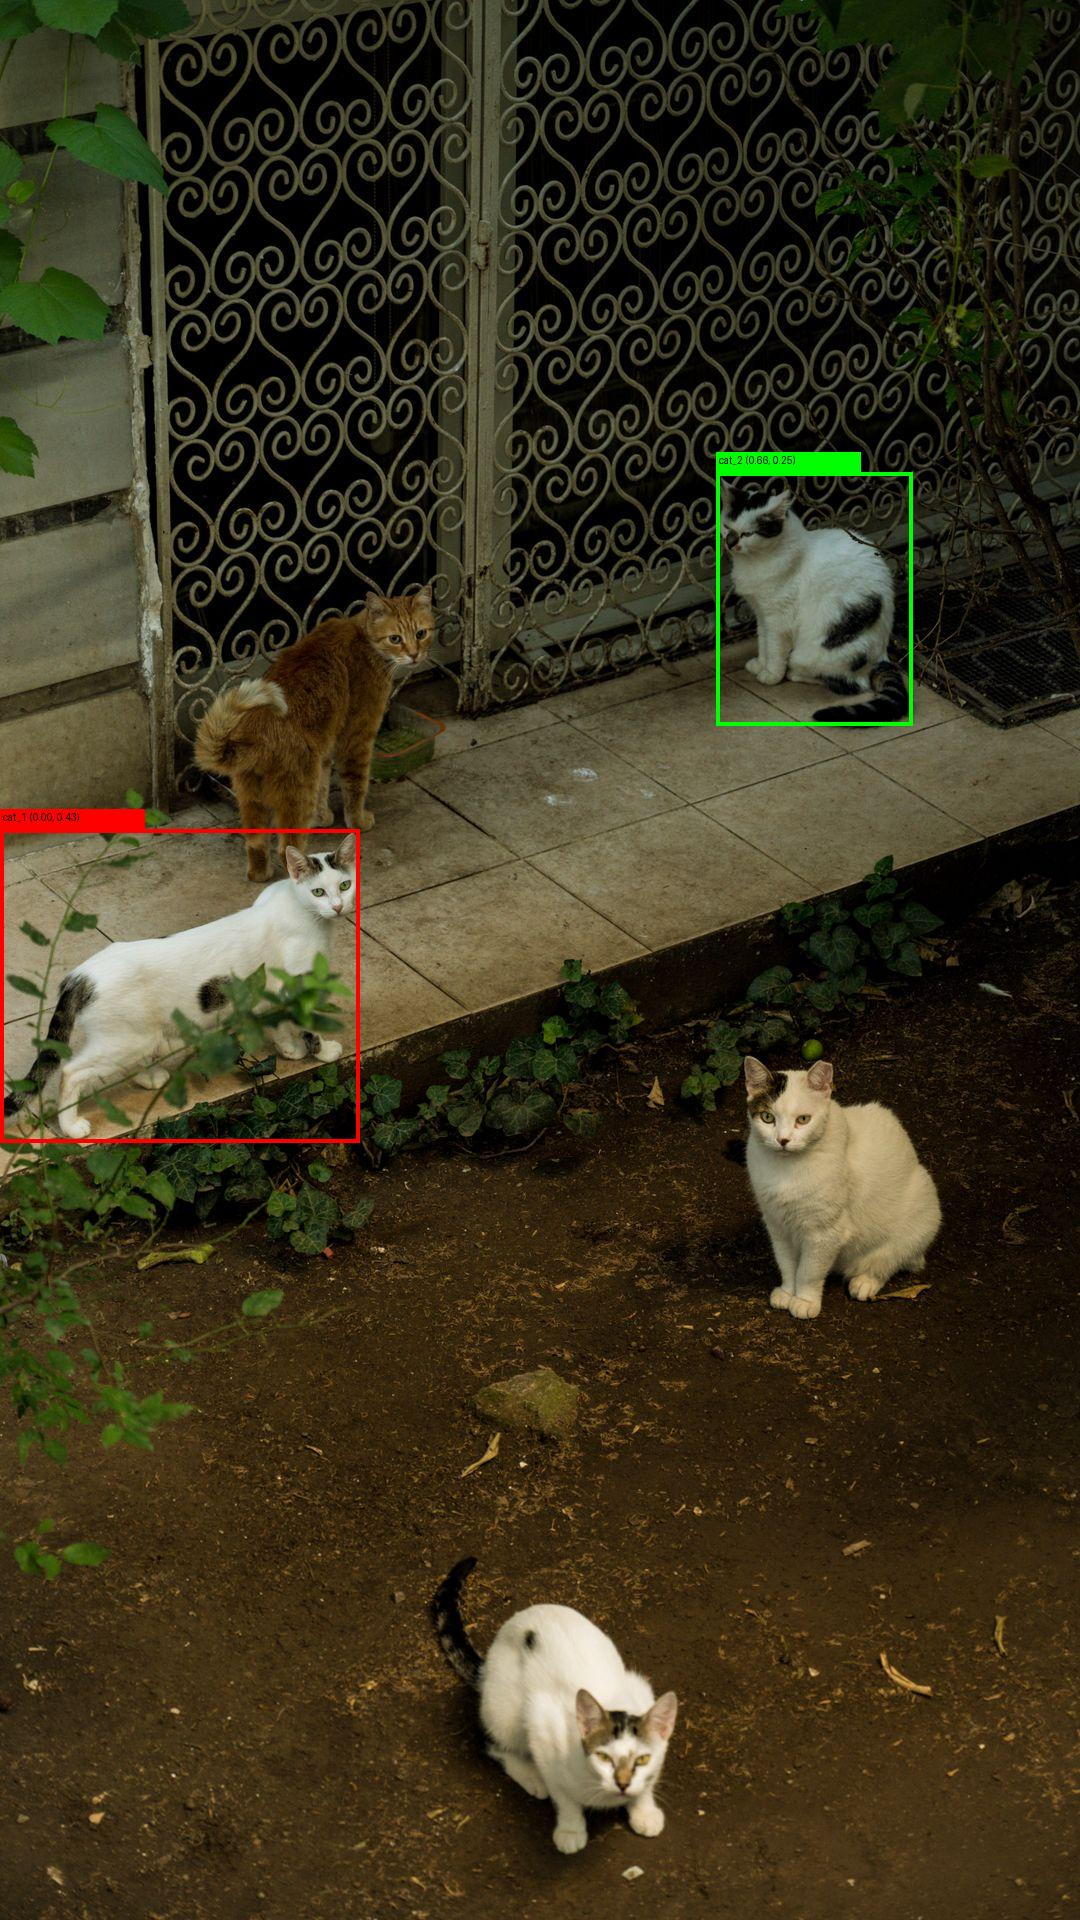
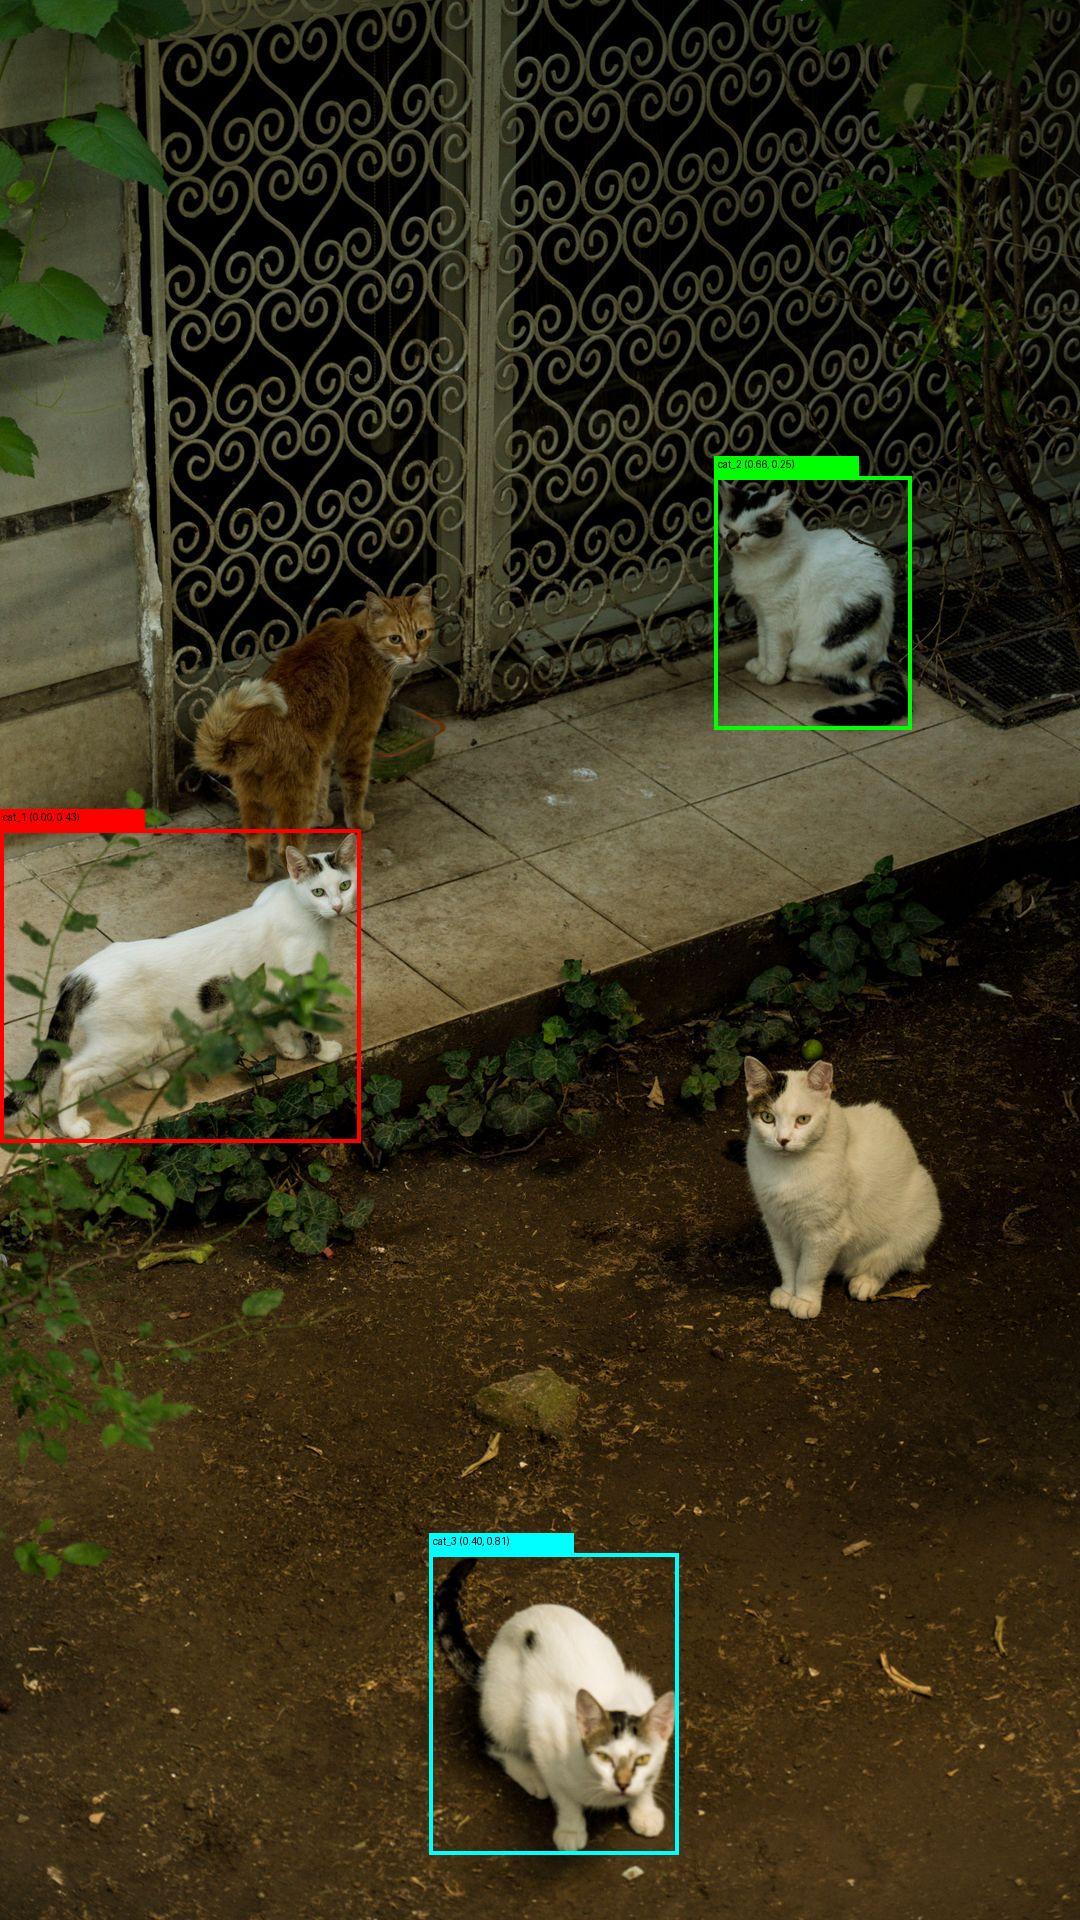
updated bboxes

Changed region(s): [[0.3972, 0.7812, 0.6417, 0.9688], [0.6417, 0.2188, 0.8556, 0.4062], [0.3056, 0.4375, 0.3361, 0.5938]]

diff --git a/Decision-BBoxes-vLLM/test_bboxs.py b/Decision-BBoxes-vLLM/test_bboxs.py
@@ -2,11 +2,12 @@ import base64
 import json
 import os
 import time
+
 import requests
 from PIL import Image, ImageDraw
 
-IMAGE_PATH = "cats.jpg"
-OUTPUT_PATH = "cat_detected.jpg"
+IMAGE_PATH = "Decision-BBoxes-vLLM/cats.jpg"
+OUTPUT_PATH = "Decision-BBoxes-vLLM/cat_detected.jpg"
 BASE_URL = "http://localhost:8000"
 
 # 1. Verify image exists
